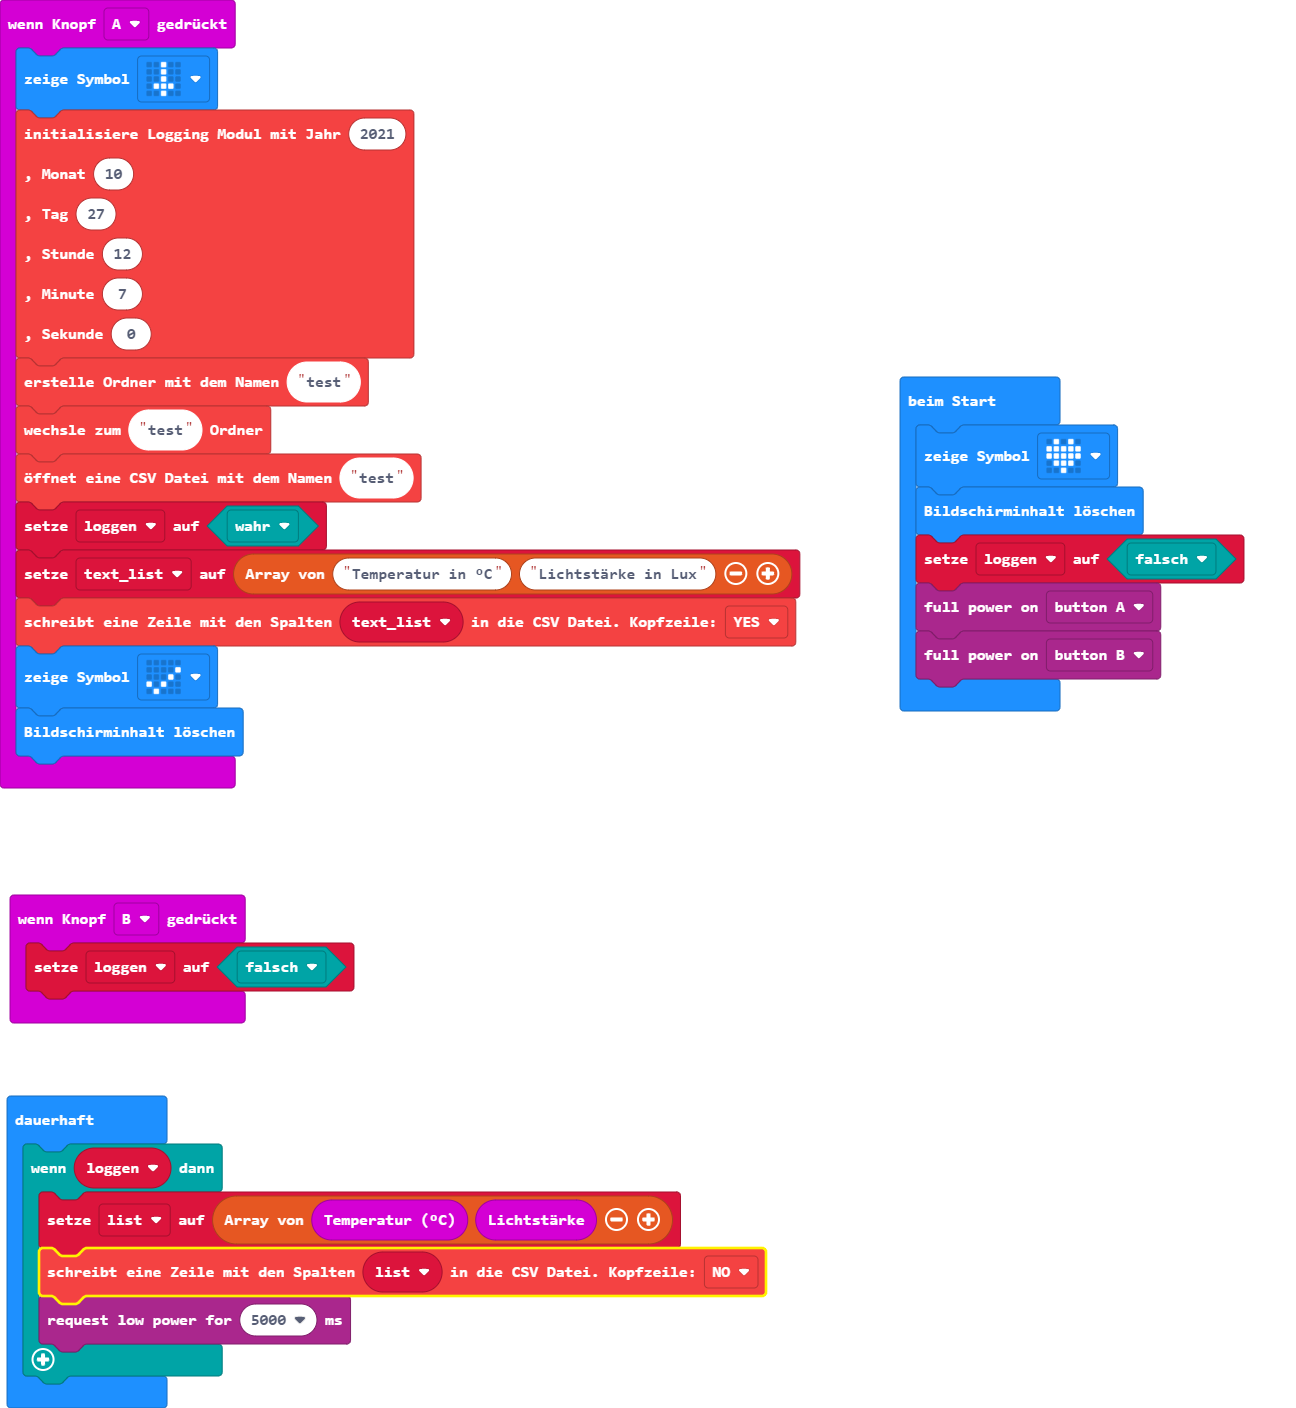
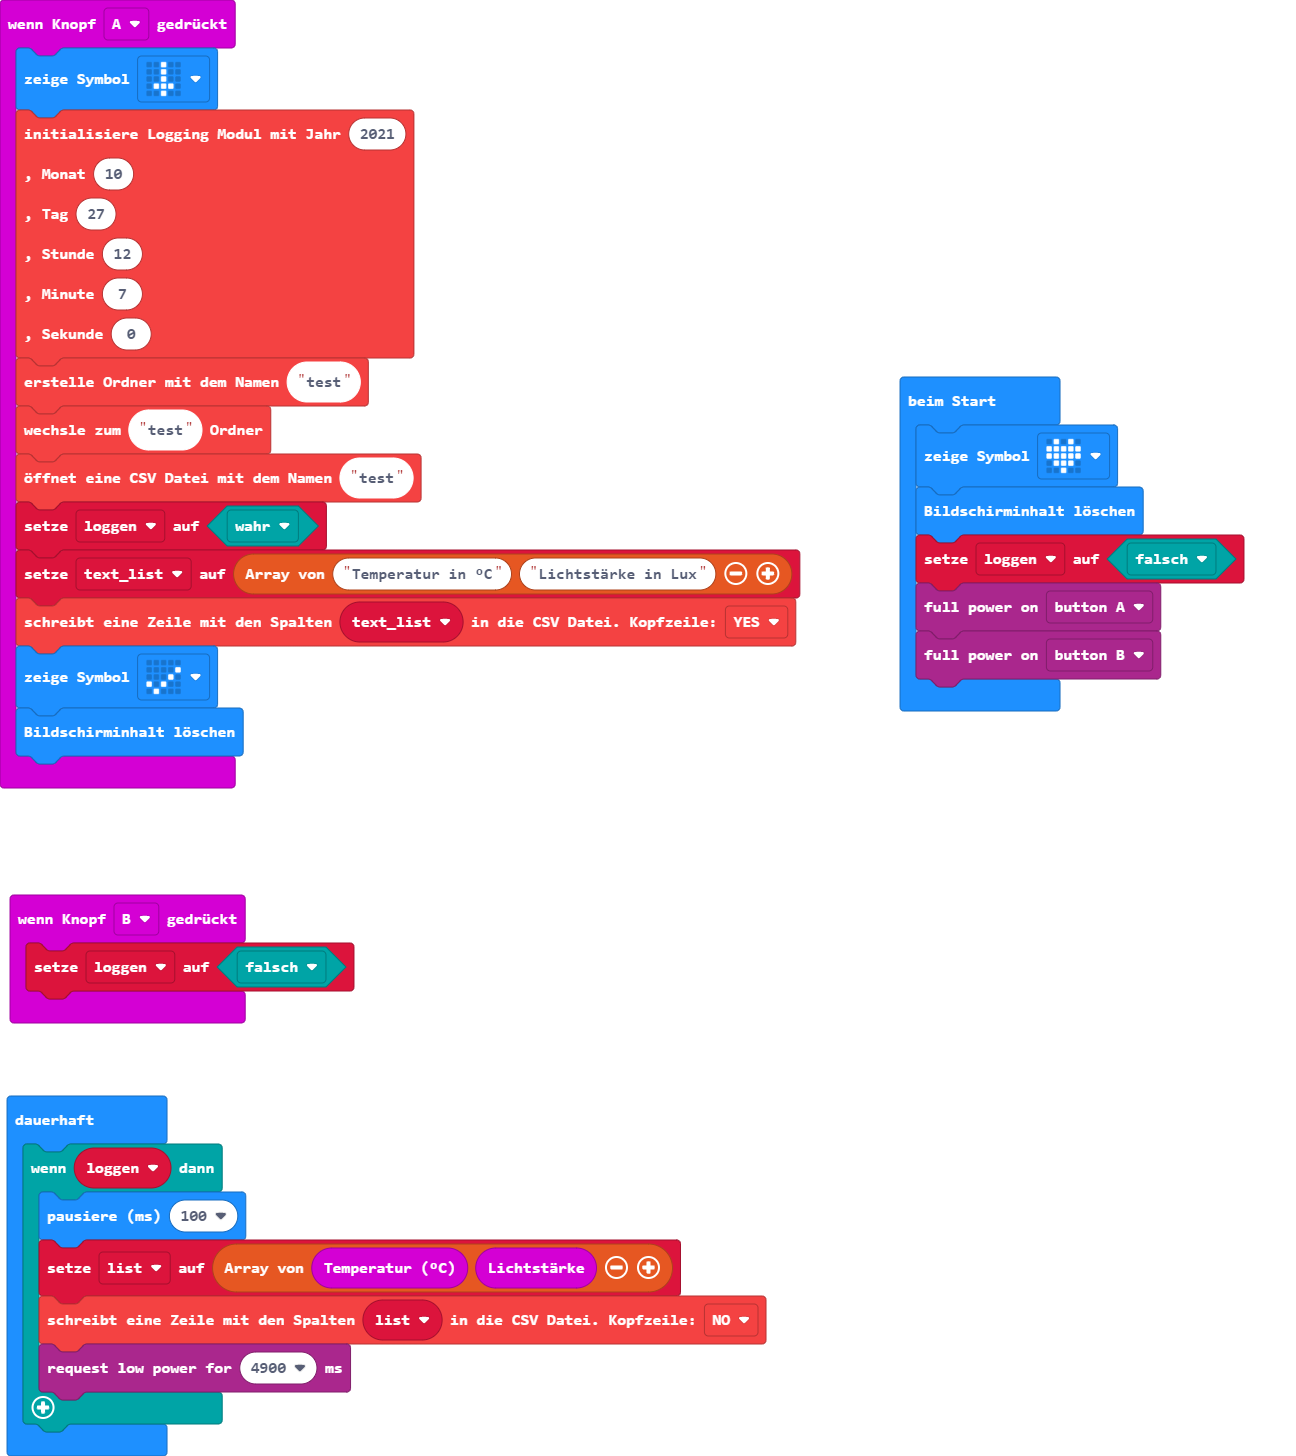
Aktualisiere main.blocks, main.ts

Changed region(s): [[0.0, 0.0, 0.6173, 0.5625], [0.0, 0.5938, 0.5864, 0.9688], [0.679, 0.25, 0.9568, 0.5312]]

diff --git a/main.ts b/main.ts
@@ -30,8 +30,9 @@ power.fullPowerOn(FullPowerSource.A)
 power.fullPowerOn(FullPowerSource.B)
 basic.forever(function () {
     if (loggen) {
+        basic.pause(100)
         list = [input.temperature(), input.lightLevel()]
         gatorLog.writeRowToCSV(list, Header.NO)
-        power.lowPowerPause(5000)
+        power.lowPowerPause(4900)
     }
 })
